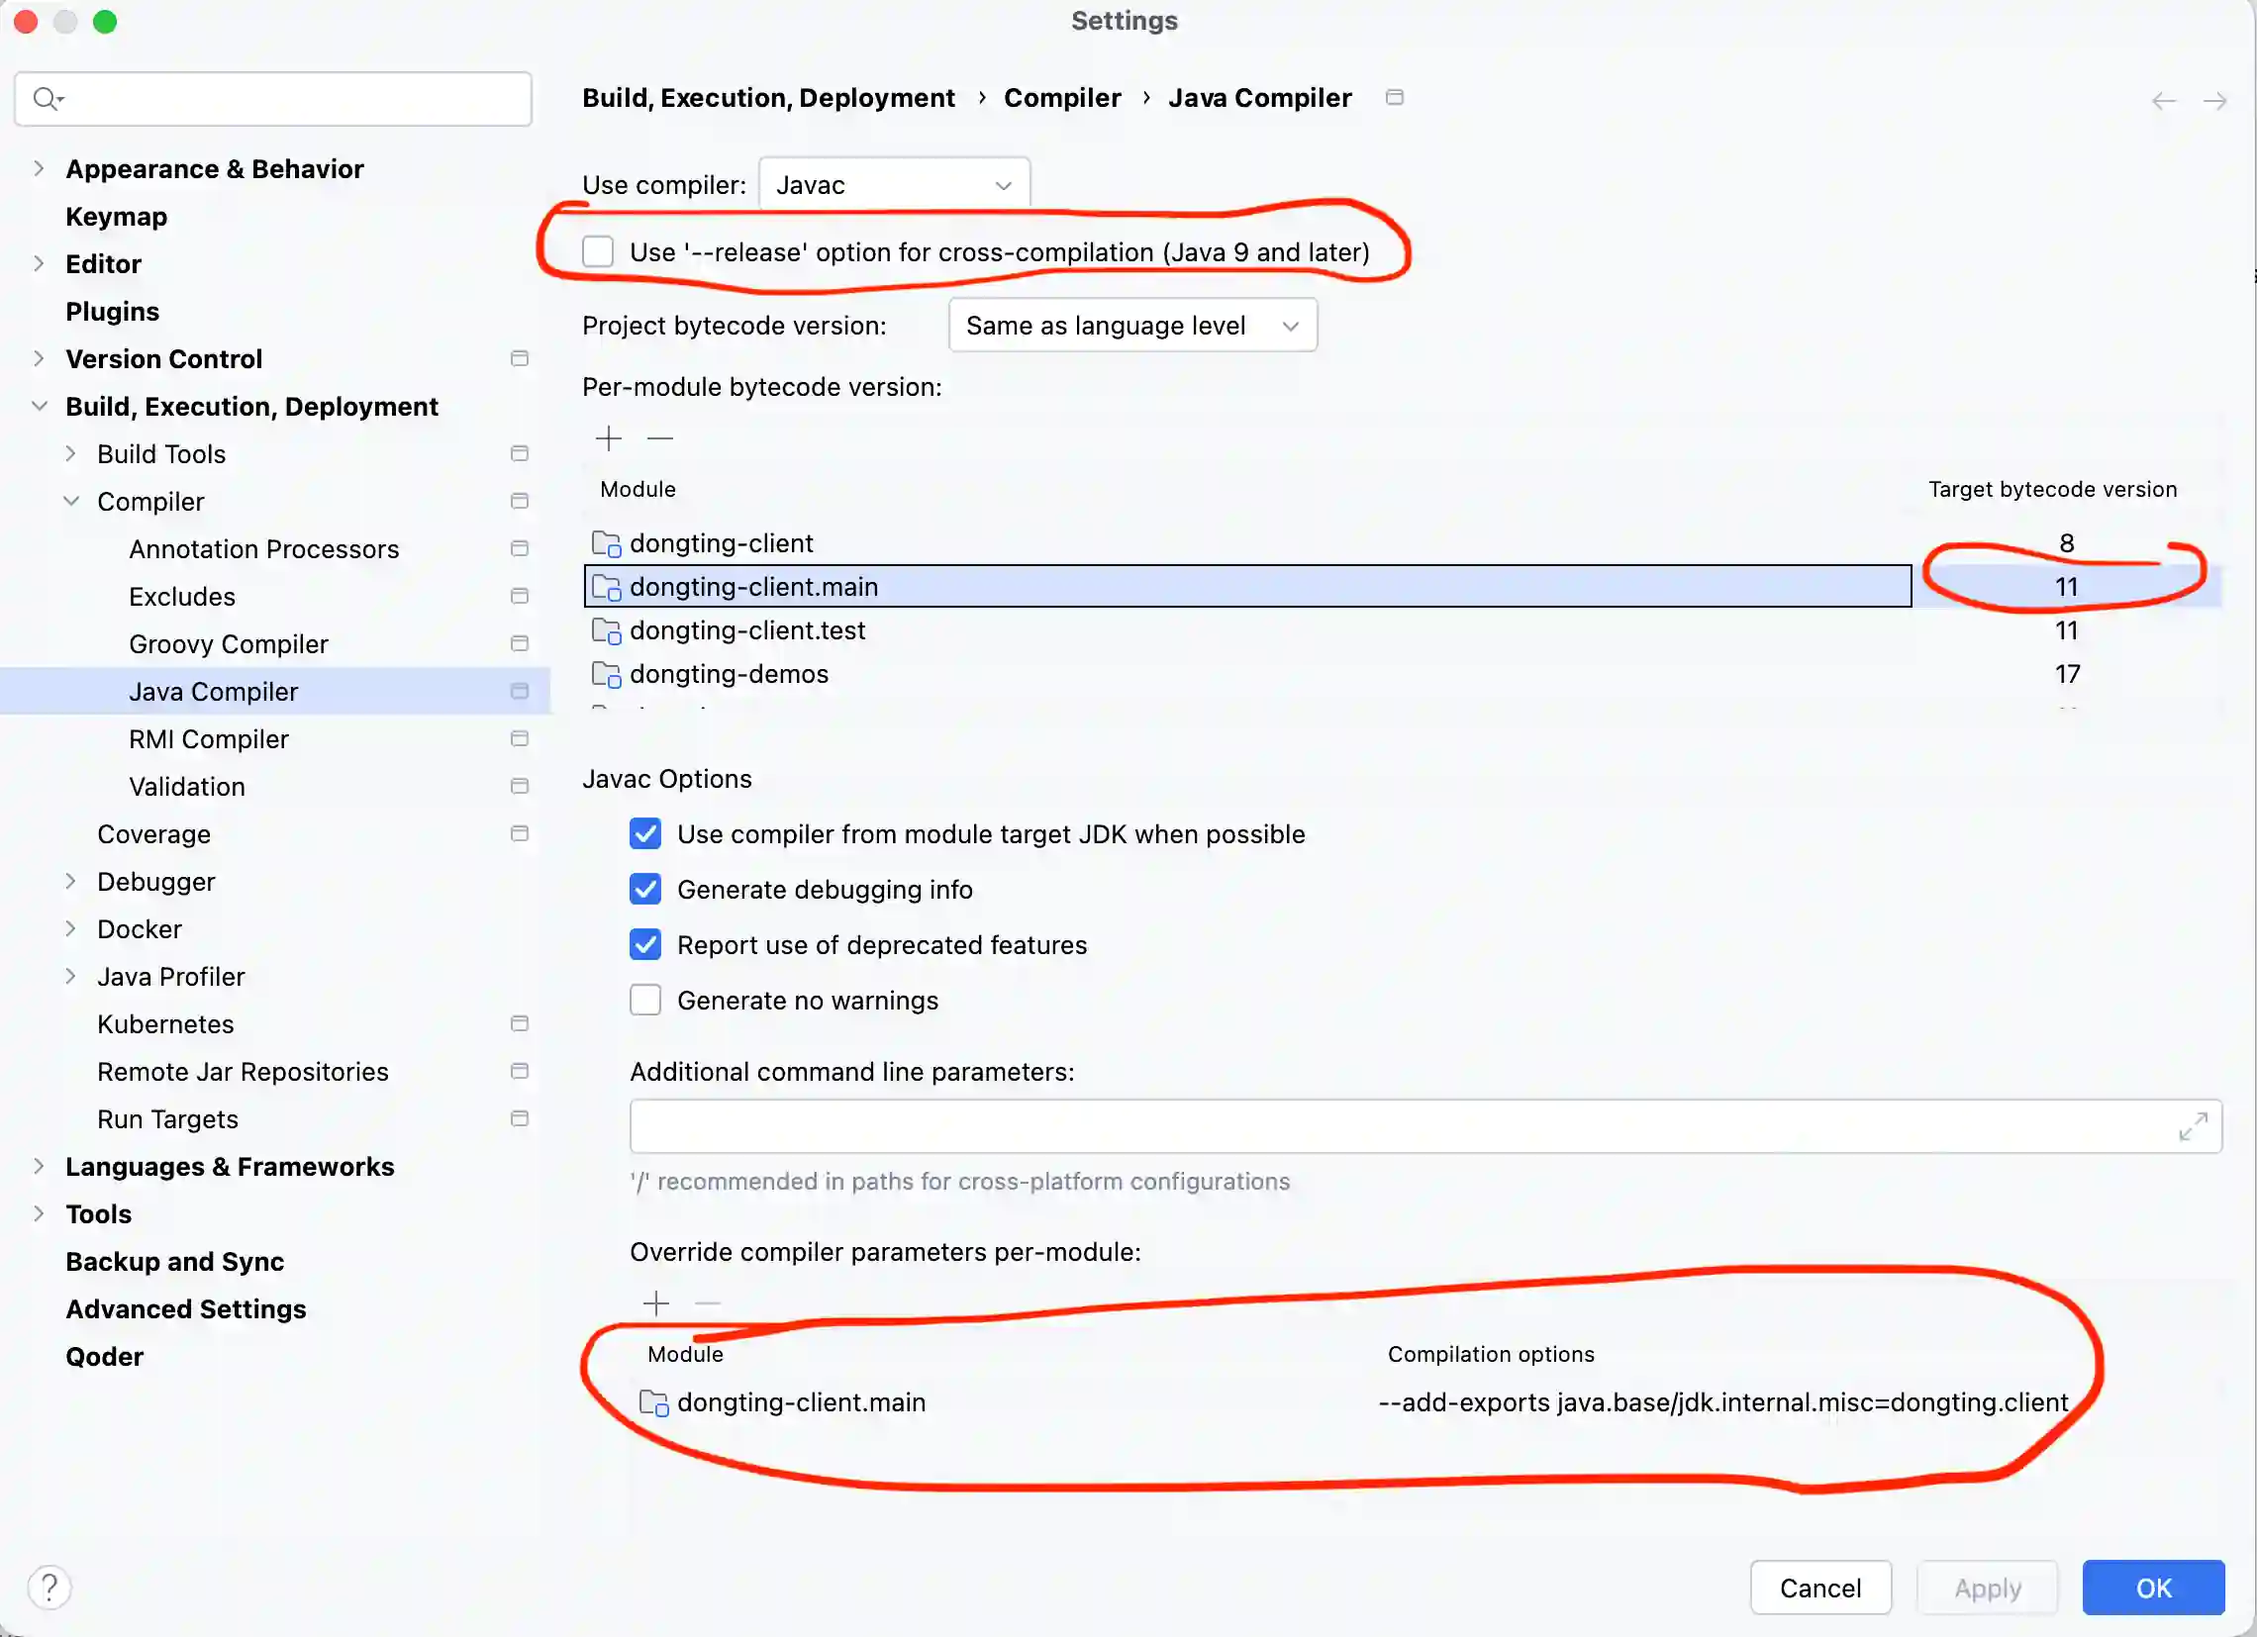
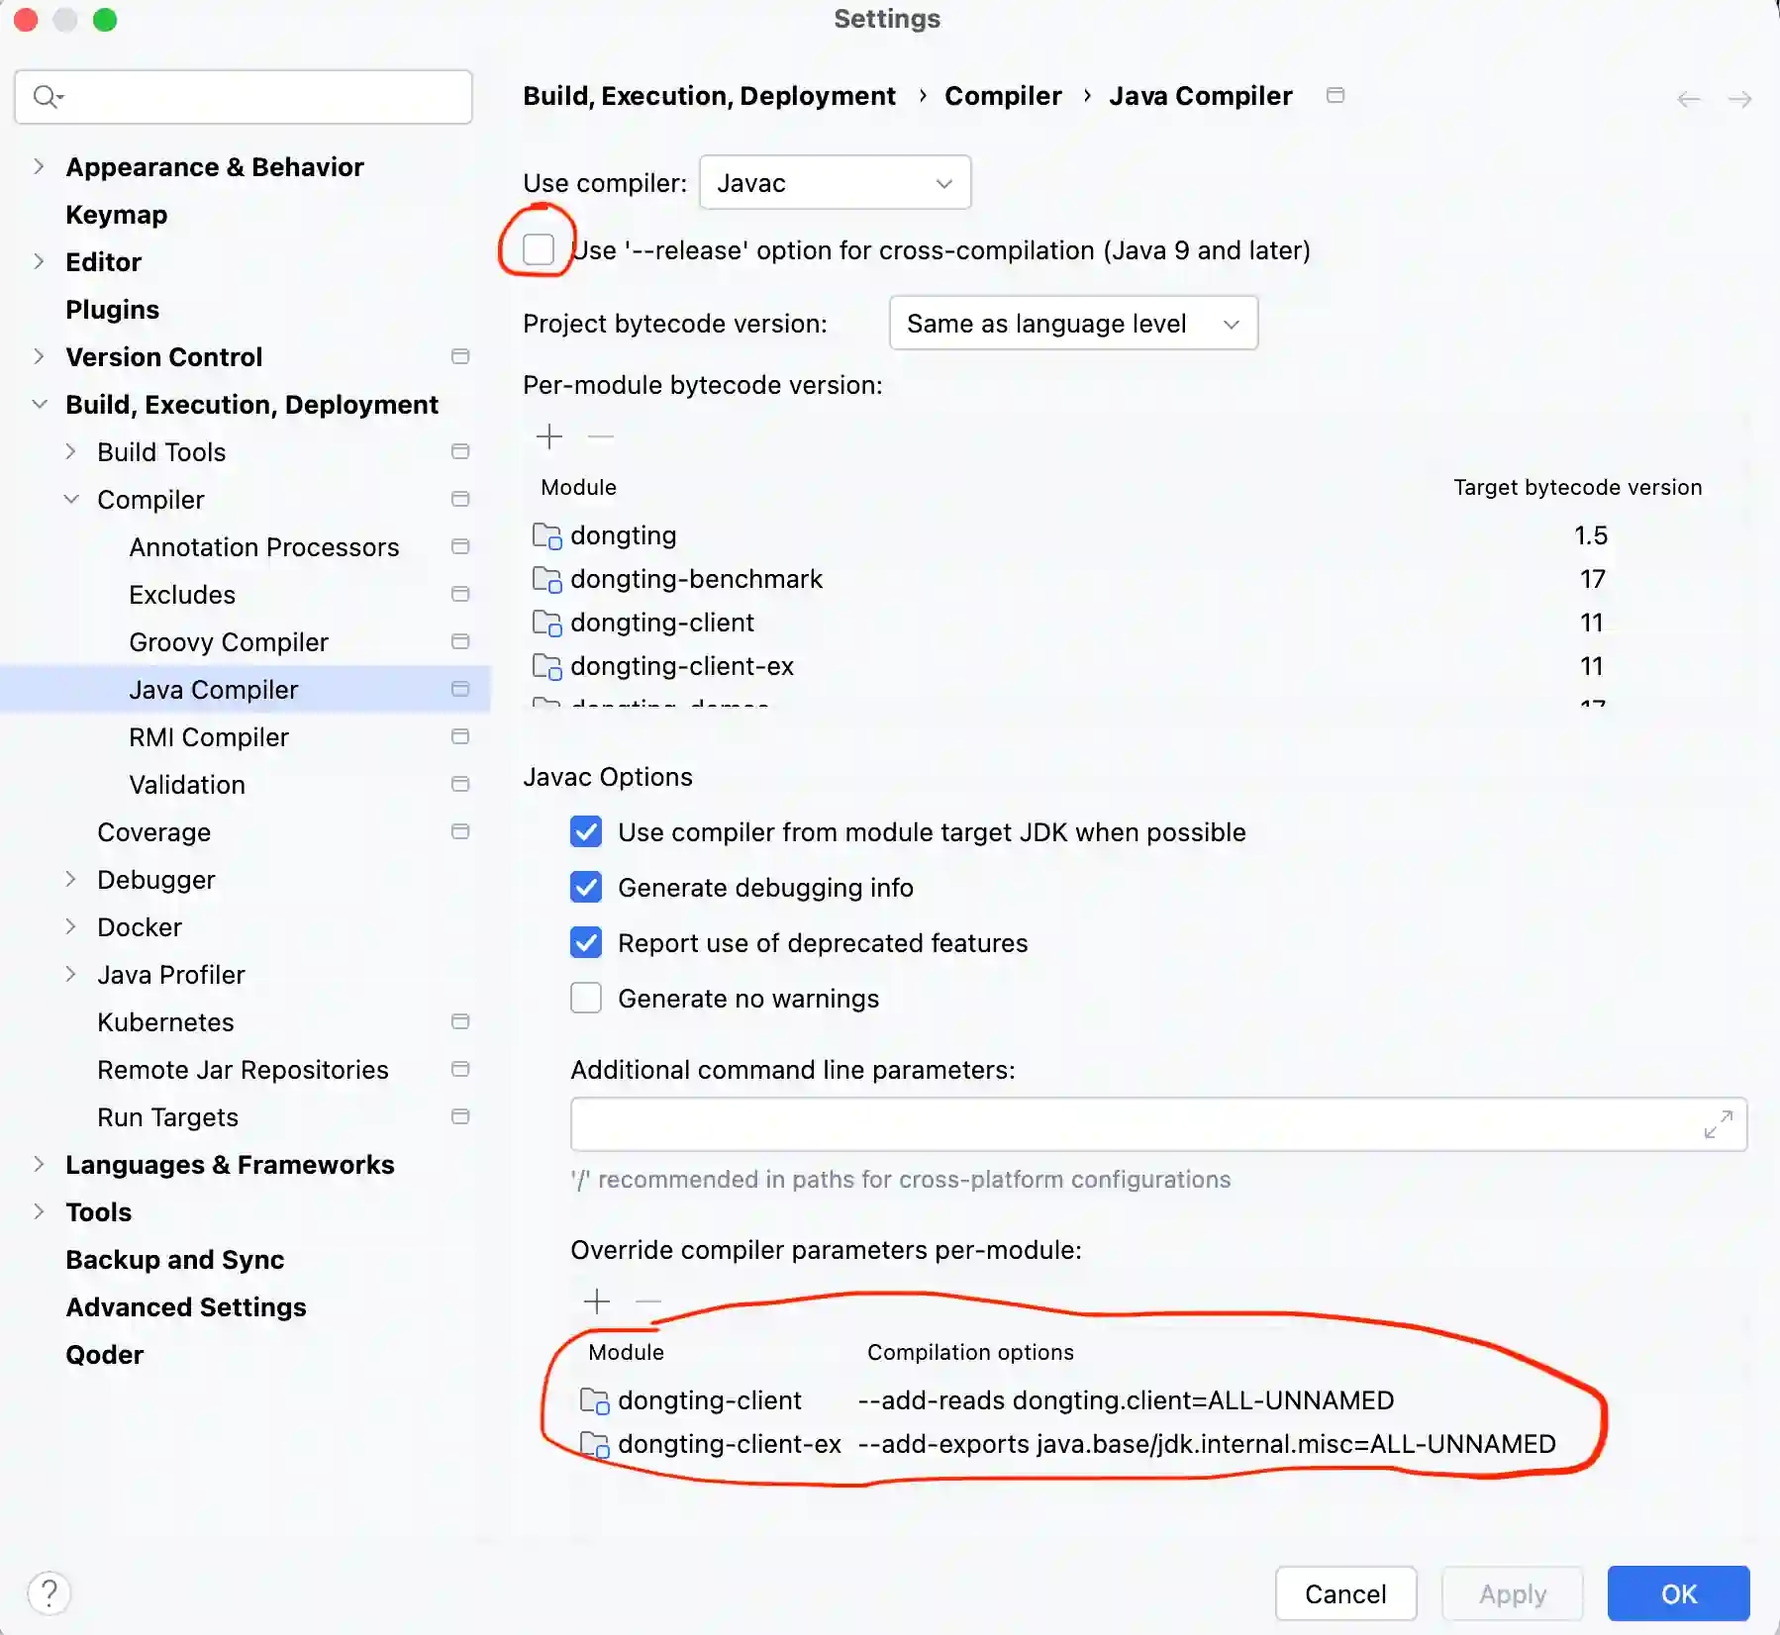
docs: update developer.md

diff --git a/docs/developer.md b/docs/developer.md
@@ -23,11 +23,10 @@ Then add the source file path generated by the plugin to the *sources* in the ID
 ![IDEA configuration](imgs/IDEA.png)
 
 Second, the client module defines multiple compilation in pom.xml (for supports from Java 8 to Java 25), 
-but the IDE may not handle it well. Setup in IntelliJ IDEA like below:
+but the IDE may not handle it well. Setup in IntelliJ IDEA like below (the --add-exports/--add-reads should 
+automatically be added after maven sync projects):
 
 ![IDEA configuration](imgs/IDEA2.webp)
-
-![IDEA configuration](imgs/IDEA3.webp)
 
 Now you can build and run the project in the IDE.
 
